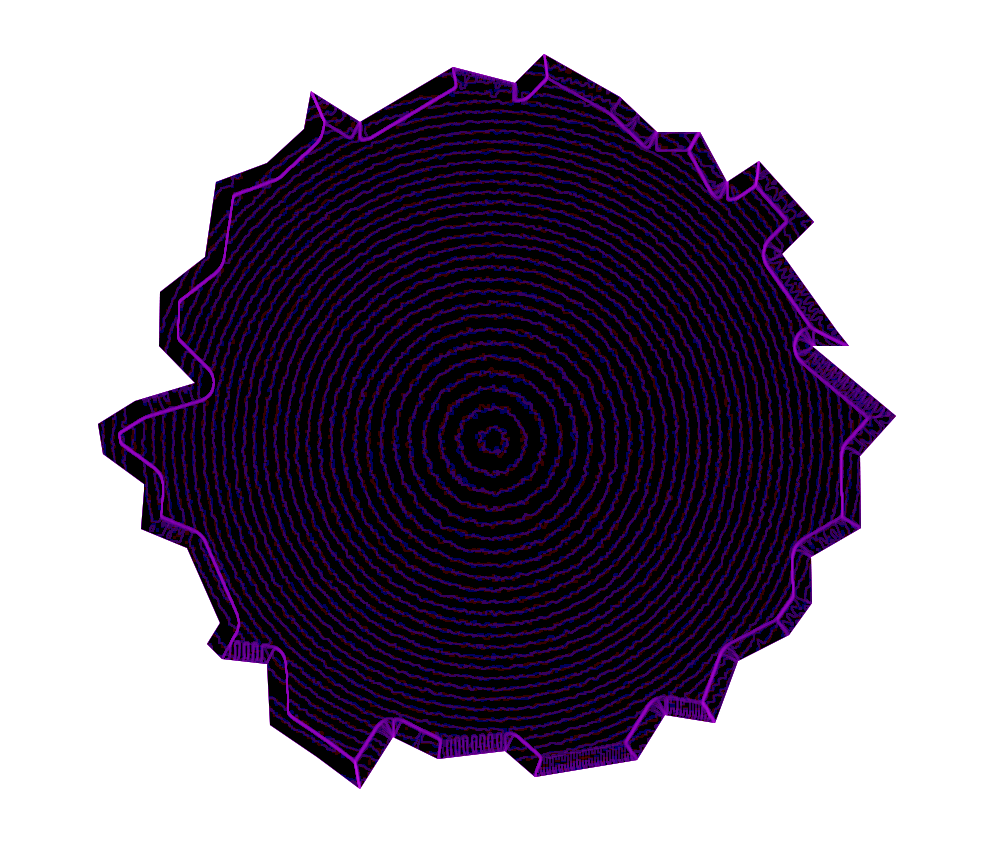
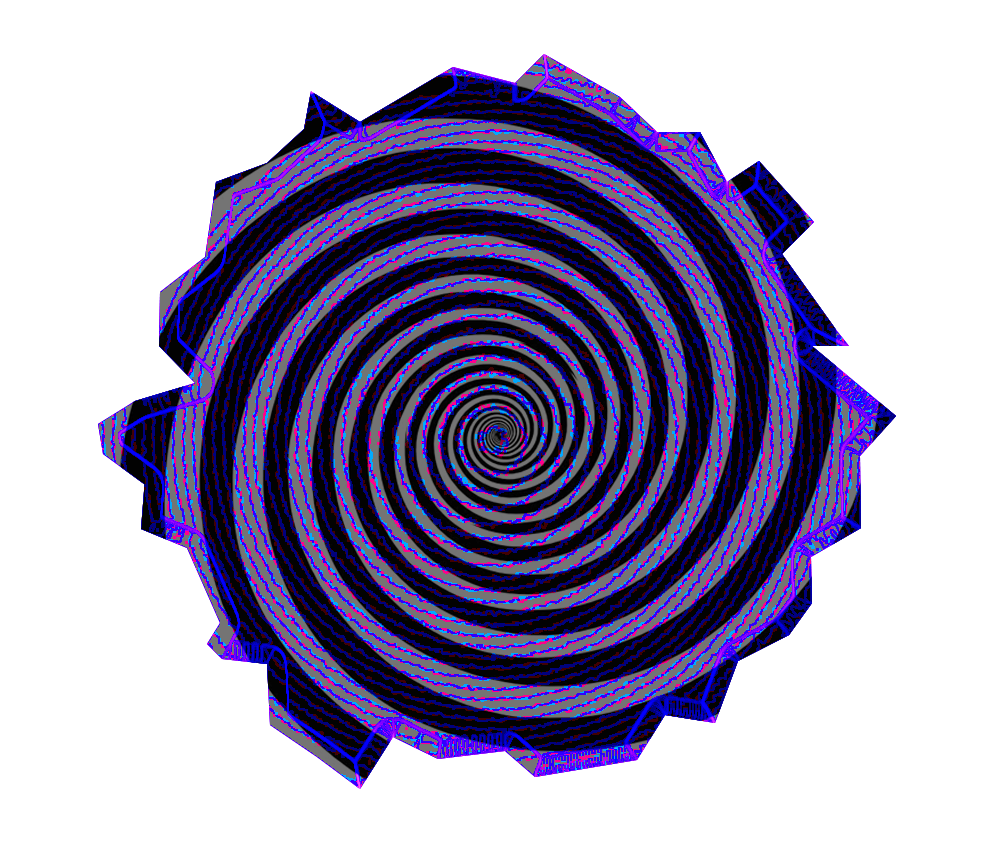
add full pacman theme, will add cherries for gold later

Changed region(s): [[0.0929, 0.0622, 0.8981, 0.9021]]

diff --git a/Final Game/Shared Code/GUI/MapRenderer.cs b/Final Game/Shared Code/GUI/MapRenderer.cs
@@ -45,8 +45,8 @@ namespace HuntTheWumpus.SharedCode.GUI
         private const int WumpusHeight = 500;
 
         public const int NumCloudTextures = 1,
-            NumDoorTextures = 5,
-            NumRoomTextures = 4,
+            NumDoorTextures = 1,
+            NumRoomTextures = 1,
             NumPitTextures = 1,
             NumGoldTextures = 0;
 
